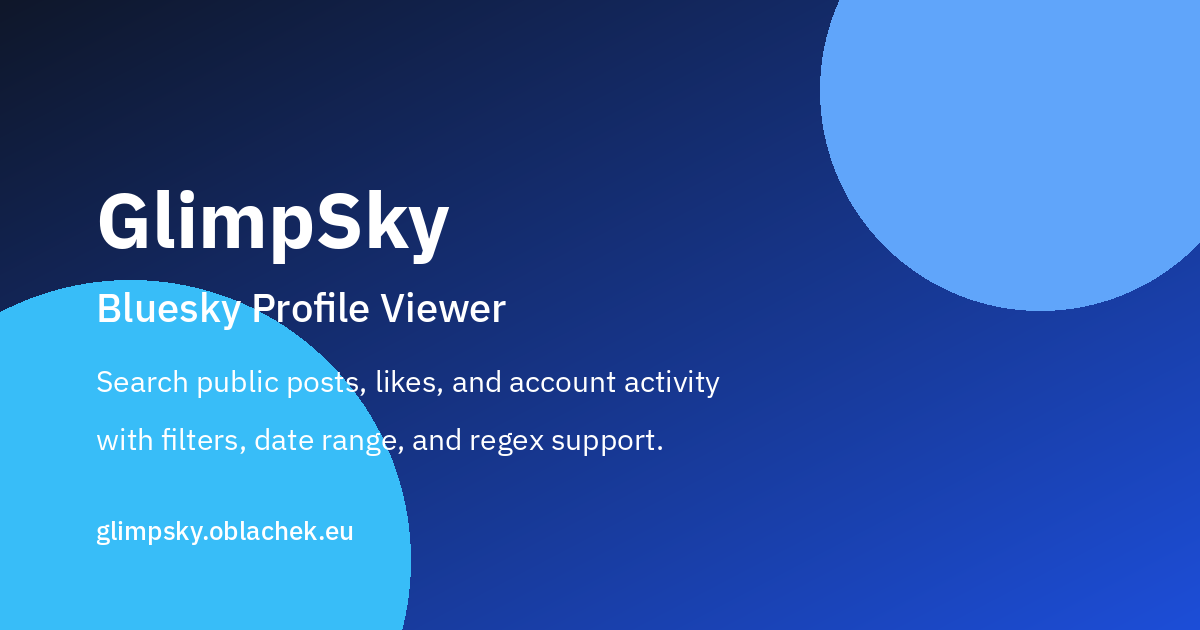
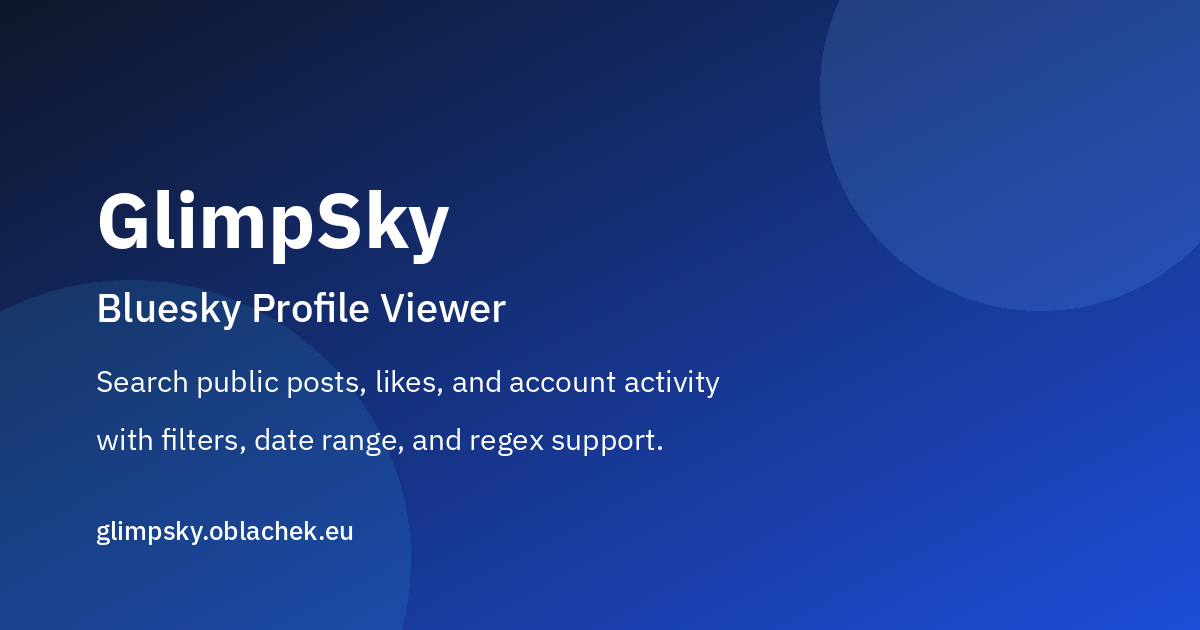
Update OG image typography and refresh card cache version

Changed region(s): [[0.0, 0.4222, 0.37, 1.0], [0.6783, 0.0, 1.0, 0.5127]]

diff --git a/sl/index.html b/sl/index.html
@@ -12,9 +12,9 @@
     <meta property="og:description" content="GlimpSky je pregledovalnik profilov Bluesky. Omogoča pregledovanje javnih objav, všečkov, sledilcev in aktivnosti računa z naprednim iskanjem s filtri, regularnimi izrazi (regex) in datumskimi razponi.">
     <meta property="og:type" content="website">
     <meta property="og:site_name" content="GlimpSky">
-    <meta property="og:image" content="https://glimpsky.oblachek.eu/assets/og-image.png?v=20260225a">
-    <meta property="og:image:url" content="https://glimpsky.oblachek.eu/assets/og-image.png?v=20260225a">
-    <meta property="og:image:secure_url" content="https://glimpsky.oblachek.eu/assets/og-image.png?v=20260225a">
+    <meta property="og:image" content="https://glimpsky.oblachek.eu/assets/og-image.png?v=20260225c">
+    <meta property="og:image:url" content="https://glimpsky.oblachek.eu/assets/og-image.png?v=20260225c">
+    <meta property="og:image:secure_url" content="https://glimpsky.oblachek.eu/assets/og-image.png?v=20260225c">
     <meta property="og:image:type" content="image/png">
     <meta property="og:image:width" content="1200">
     <meta property="og:image:height" content="630">
@@ -23,7 +23,7 @@
     <meta name="twitter:card" content="summary_large_image">
     <meta name="twitter:title" content="GlimpSky - Pregledovalnik profilov Bluesky">
     <meta name="twitter:description" content="GlimpSky je pregledovalnik profilov Bluesky. Omogoča pregledovanje javnih objav, všečkov, sledilcev in aktivnosti računa z naprednim iskanjem s filtri, regularnimi izrazi (regex) in datumskimi razponi.">
-    <meta name="twitter:image" content="https://glimpsky.oblachek.eu/assets/og-image.png?v=20260225a">
+    <meta name="twitter:image" content="https://glimpsky.oblachek.eu/assets/og-image.png?v=20260225c">
     <meta name="twitter:image:alt" content="GlimpSky pregledovalnik profilov Bluesky">
     <meta name="twitter:url" content="https://glimpsky.oblachek.eu/sl/" id="twitterUrl">
     <meta name="author" content="oblachek.eu">

diff --git a/index.html b/index.html
@@ -12,9 +12,9 @@
     <meta property="og:description" content="GlimpSky is a Bluesky profile viewer. Explore public posts, likes, followers, and account activity with advanced filtering, regex search, and date ranges.">
     <meta property="og:type" content="website">
     <meta property="og:site_name" content="GlimpSky">
-    <meta property="og:image" content="https://glimpsky.oblachek.eu/assets/og-image.png?v=20260225a">
-    <meta property="og:image:url" content="https://glimpsky.oblachek.eu/assets/og-image.png?v=20260225a">
-    <meta property="og:image:secure_url" content="https://glimpsky.oblachek.eu/assets/og-image.png?v=20260225a">
+    <meta property="og:image" content="https://glimpsky.oblachek.eu/assets/og-image.png?v=20260225c">
+    <meta property="og:image:url" content="https://glimpsky.oblachek.eu/assets/og-image.png?v=20260225c">
+    <meta property="og:image:secure_url" content="https://glimpsky.oblachek.eu/assets/og-image.png?v=20260225c">
     <meta property="og:image:type" content="image/png">
     <meta property="og:image:width" content="1200">
     <meta property="og:image:height" content="630">
@@ -23,7 +23,7 @@
     <meta name="twitter:card" content="summary_large_image">
     <meta name="twitter:title" content="GlimpSky - Bluesky Profile Viewer">
     <meta name="twitter:description" content="GlimpSky is a Bluesky profile viewer. Explore public posts, likes, followers, and account activity with advanced filtering, regex search, and date ranges.">
-    <meta name="twitter:image" content="https://glimpsky.oblachek.eu/assets/og-image.png?v=20260225a">
+    <meta name="twitter:image" content="https://glimpsky.oblachek.eu/assets/og-image.png?v=20260225c">
     <meta name="twitter:image:alt" content="GlimpSky Bluesky Profile Viewer">
     <meta name="twitter:url" content="https://glimpsky.oblachek.eu/" id="twitterUrl">
     <meta name="author" content="oblachek.eu">

diff --git a/guides/bluesky-likes-viewer/index.html b/guides/bluesky-likes-viewer/index.html
@@ -10,7 +10,7 @@
   <meta property="og:description" content="Inspect and filter public Bluesky likes with interactive analytics, all-likes main line mode, and full-load support.">
   <meta property="og:type" content="article">
   <meta property="og:url" content="https://glimpsky.oblachek.eu/guides/bluesky-likes-viewer/">
-  <meta property="og:image" content="https://glimpsky.oblachek.eu/assets/og-image.png?v=20260225a">
+  <meta property="og:image" content="https://glimpsky.oblachek.eu/assets/og-image.png?v=20260225c">
   <meta name="twitter:card" content="summary_large_image">
   <meta name="twitter:title" content="Bluesky Likes Viewer - GlimpSky">
   <meta name="twitter:description" content="How to see and filter public Bluesky likes with analytics, regex, author search, and date windows.">

diff --git a/guides/bluesky-profile-viewer/index.html b/guides/bluesky-profile-viewer/index.html
@@ -10,7 +10,7 @@
   <meta property="og:description" content="Analyze profile activity, social graph, interactive analytics, and advanced filters in one place.">
   <meta property="og:type" content="article">
   <meta property="og:url" content="https://glimpsky.oblachek.eu/guides/bluesky-profile-viewer/">
-  <meta property="og:image" content="https://glimpsky.oblachek.eu/assets/og-image.png?v=20260225a">
+  <meta property="og:image" content="https://glimpsky.oblachek.eu/assets/og-image.png?v=20260225c">
   <meta name="twitter:card" content="summary_large_image">
   <meta name="twitter:title" content="Bluesky Profile Viewer - GlimpSky">
   <meta name="twitter:description" content="Profile diagnostics, follower search, interactive analytics, and post/like filtering for public Bluesky accounts.">

diff --git a/guides/bluesky-followers-search/index.html b/guides/bluesky-followers-search/index.html
@@ -10,7 +10,7 @@
   <meta property="og:description" content="Find specific accounts inside follower/following lists of public Bluesky profiles.">
   <meta property="og:type" content="article">
   <meta property="og:url" content="https://glimpsky.oblachek.eu/guides/bluesky-followers-search/">
-  <meta property="og:image" content="https://glimpsky.oblachek.eu/assets/og-image.png?v=20260225a">
+  <meta property="og:image" content="https://glimpsky.oblachek.eu/assets/og-image.png?v=20260225c">
   <meta name="twitter:card" content="summary_large_image">
   <meta name="twitter:title" content="Bluesky Followers Search - GlimpSky">
   <meta name="twitter:description" content="Search followers/following with regex and full-list loading.">

diff --git a/guides/index.html b/guides/index.html
@@ -10,7 +10,7 @@
   <meta property="og:description" content="Compact guides for profile analysis, likes analysis, and follower search.">
   <meta property="og:type" content="website">
   <meta property="og:url" content="https://glimpsky.oblachek.eu/guides/">
-  <meta property="og:image" content="https://glimpsky.oblachek.eu/assets/og-image.png?v=20260225a">
+  <meta property="og:image" content="https://glimpsky.oblachek.eu/assets/og-image.png?v=20260225c">
   <meta name="twitter:card" content="summary_large_image">
   <meta name="twitter:title" content="GlimpSky Guides">
   <meta name="twitter:description" content="Guides for profile, likes, and follower analysis on Bluesky.">
